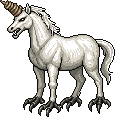
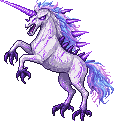
The Mythiclaw redrawn to the user's own reference: rearing on its talons, a cracked lilac-white coat with glowing purple veins, spikes down its back, a fanged jaw, a long thin glowing violet horn and a pastel blue, pink and purple mane. Option A of three new finalists is in the game until the user p

diff --git a/lib/sprites/creatures.ts b/lib/sprites/creatures.ts
@@ -19,7 +19,7 @@ const ART_SIZES: Record<string, [number, number]> = {
   moss_wolf: [82, 65],
   amber_wasp: [62, 55],
   bellow_toad: [90, 68],
-  dire_wolf: [115, 117], // the Mythiclaw (2026-11-26; the Dire Wolf's old art is rooms/dire_wolf_scene.png)
+  dire_wolf: [114, 121], // the Mythiclaw (2026-11-26; the Dire Wolf's old art is rooms/dire_wolf_scene.png)
   ironhide: [122, 87],
   cave_bat: [60, 63], // the Cave Goblin (was the Cave Bat; the id stays for old saves)
   rust_beetle: [81, 68],

diff --git a/public/sprites/PIXELLAB.md b/public/sprites/PIXELLAB.md
@@ -41,7 +41,7 @@ the PNG here.
 | creatures/troglodyte_brute.png | job 67ed269a-ca13-4765-83fe-b35df2944608 (pixen 128×128, gallery c335fd01-ea0d-5785-9bb3-faf5f7481f87) |
 | creatures/gravewarden.png | job 8cd2d3c2-fcb0-40b4-a98b-b79505ae73b1 (pixen 128×128, gallery bde346e7-3644-5a5e-bdd9-8584e533f2a6) |
 | creatures/hexed_puppet.png | edit_image_pro_flash 54cf04de-84a8-4d7d-b7e3-9524eba3d90e (a whole marionette cross) of pixen cc79a273-a6d2-476f-ad22-1e19d5242628 |
-| creatures/dire_wolf.png | the Mythiclaw (2026-11-26; the Dire Wolf's art moved to rooms/dire_wolf_scene.png): edit_image_pro_flash 43db9c68-6cb0-4d01-9d34-db971a477059 (ridged horn) of edit 720726bf-1308-4efa-a734-d37989933de1 (one horn, talons) of pixen cd8e3a96-2a27-4f8a-8473-7a9a6f82b2e6; option A of three in art/new-creatures-2026-11-26 (stand-in until the user picks) |
+| creatures/dire_wolf.png | the Mythiclaw (2026-11-26; the Dire Wolf's art moved to rooms/dire_wolf_scene.png), restyled to the user's reference (art/new-creatures-2026-11-26/ref): edit_image_pro_flash d709b0be-cfb6-44ac-ac99-37a38b72f8d2 (thin glowing horn, bigger spikes) of 3a399567-1638-4146-a8d7-4d29176c7133 (the reference's look, by reference image) of the rearing edit ea24f831-e781-43a5-8db0-5b98067ff58f; option A of three (stand-in until the user picks) |
 | creatures/labyrinth_sprite.png | pixen 86998418-ac51-4bd5-947b-a732de99fda2; option A of three in art/new-creatures-2026-11-26 (stand-in until the user picks) |
 | creatures/deep_angler.png | gallery:aa6e8bcd-c214-4545-8890-8c9f9b18fcb7 (raw generation; trimmed + mirrored here) |
 | creatures/tunnel_wyrm.png | gallery:6b352516-6423-470d-8f0c-1b50394f10a9 (raw generation; trimmed + mirrored here) |

diff --git a/art/new-creatures-2026-11-26/README.md b/art/new-creatures-2026-11-26/README.md
@@ -11,3 +11,9 @@ Job ids for every draft are in jobs.txt.
   - Mythiclaw A (F7, the judge's first: snarling, heavy), B (F1: cleanest, pale glare), C (F6: rearing).
   - Labyrinth Sprite A (S2, the judge's first: fanged moth fairy, star staff), B (F4: hollow-eyed child with a halo), C (F0: gaunt goblin fairy, glowing eyes).
 - A is in the game as the stand-in until the user picks.
+
+**The user's look (2026-11-26):** their own reference (ref/user-reference.png, from Desktop/Foods/mythiclaw.jpeg: "spikes down
+the back, vein style things down it. I like the teeth. I like the colours"; the rearing stance, old C). round5.png: R1 (edit
+of C with the reference as the style image), R2/R3 (text edits of C), R4/R5 (pixen; hooves, out). round6.png: the thin
+glowing horn on R1, R3, R2 = **the Mythiclaw finalists now**, A (V1, the judge's first), B (V3, cooler lilac), C (V2, brightest
+veins). The first look's finalists are in finals/first-look/.
